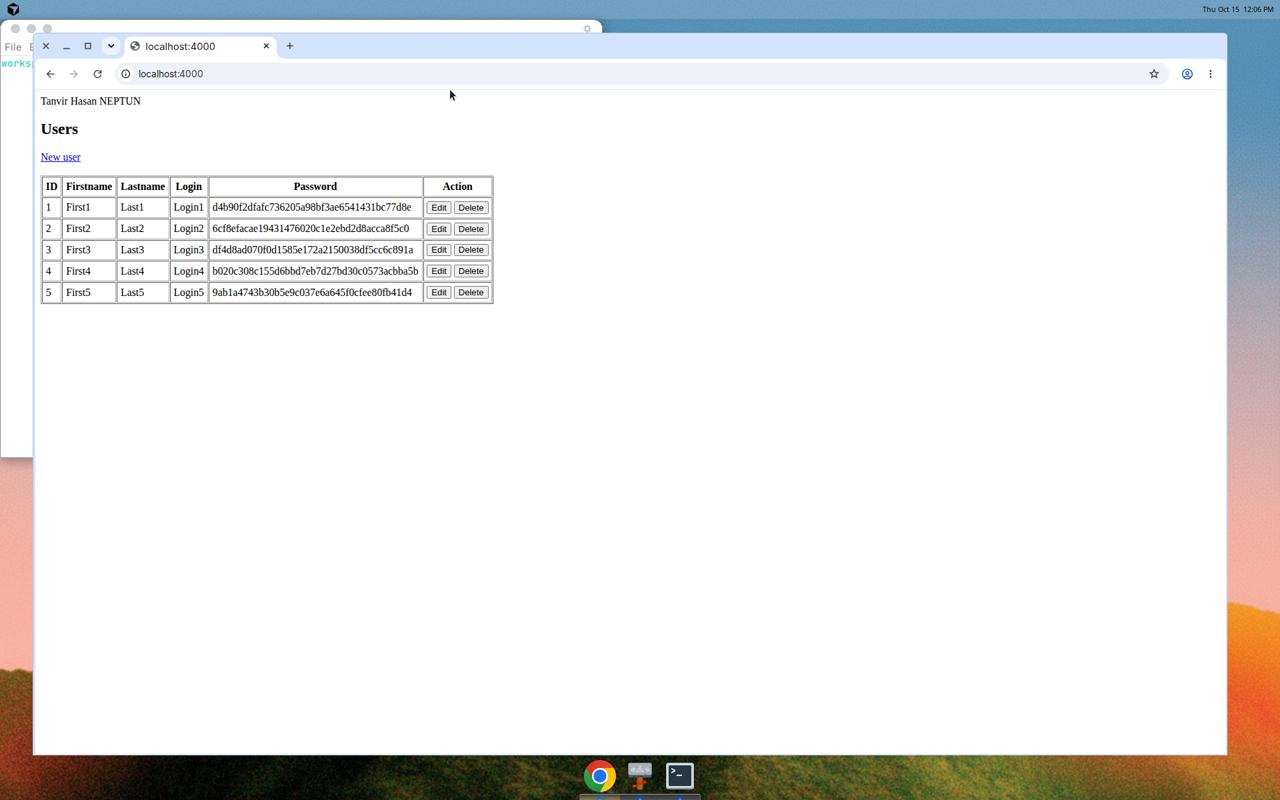
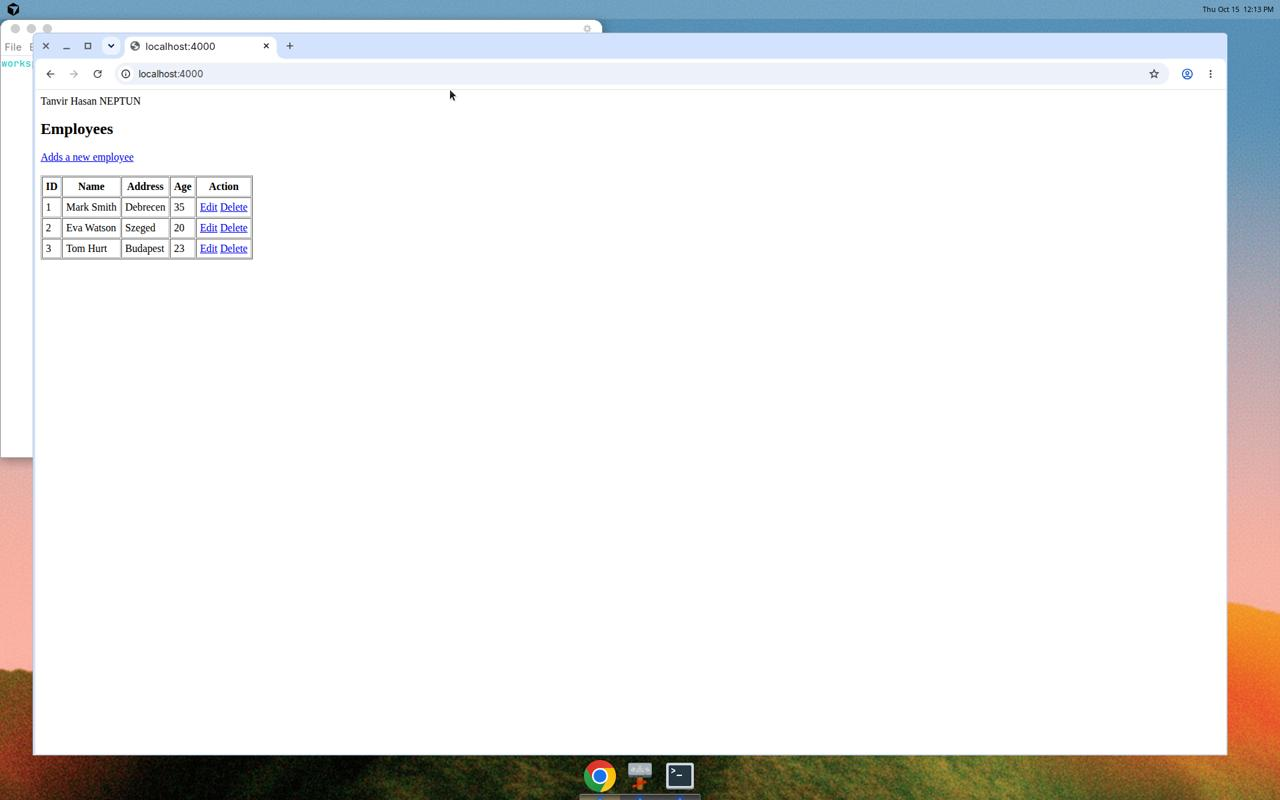
Adapt solution to Web-2-Midterm-1-A group from the exam sheets.
Exercise 1: /exercise form with Name, Address, and Country
(Hungary, Poland, Austria, Italy).
Exercise 2: employee CRUD on the exercise database with
Employees list, add/edit/delete routes.
Refresh mainpage.jpg and edit.jpg for Exercise 3.

Changed region(s): [[0.0312, 0.1562, 0.4062, 0.375]]

diff --git a/2-exercise/app.js b/2-exercise/app.js
@@ -13,7 +13,7 @@ const db = mysql.createConnection({
     host: "localhost",
     user: "root",
     password: "",
-    database: "web2"
+    database: "exercise"
 });
 
 db.connect(err => {
@@ -28,25 +28,20 @@ function header() {
 }
 
 app.get("/", (req, res) => {
-    db.query("SELECT * FROM users ORDER BY id", (err, rows) => {
+    db.query("SELECT * FROM employee ORDER BY id", (err, rows) => {
         if (err) {
             res.send(header() + "Database error!");
             return;
         }
         let html = header();
-        html += "<h2>Users</h2>";
-        html += "<a href='/new'>New user</a><br><br>";
+        html += "<h2>Employees</h2>";
+        html += "<a href='/new'>Adds a new employee</a><br><br>";
         html += "<table border='1' cellpadding='5'>";
-        html += "<tr><th>ID</th><th>Firstname</th><th>Lastname</th><th>Login</th><th>Password</th><th>Action</th></tr>";
+        html += "<tr><th>ID</th><th>Name</th><th>Address</th><th>Age</th><th>Action</th></tr>";
         rows.forEach(row => {
-            html += "<tr><td>" + row.id + "</td><td>" + row.firstname + "</td><td>" + row.lastname + "</td><td>" + row.login + "</td><td>" + row.password + "</td><td>";
-            html += `
-            <form method="get" action="/edit/${row.id}" style="display:inline">
-                <input type="submit" value="Edit">
-            </form>
-            <form method="get" action="/delete/${row.id}" style="display:inline">
-                <input type="submit" value="Delete">
-            </form>`;
+            html += "<tr><td>" + row.id + "</td><td>" + row.name + "</td><td>" + row.address + "</td><td>" + row.age + "</td><td>";
+            html += `<a href="/edit/${row.id}">Edit</a> `;
+            html += `<a href="/delete/${row.id}">Delete</a>`;
             html += "</td></tr>";
         });
         html += "</table>";
@@ -56,12 +51,11 @@ app.get("/", (req, res) => {
 
 app.get("/new", (req, res) => {
     let html = header();
-    html += `<h2>New user</h2>
+    html += `<h2>New employee</h2>
     <form method="post" action="/insert">
-        Firstname:<br><input name="firstname"><br>
-        Lastname:<br><input name="lastname"><br>
-        Login:<br><input name="login"><br>
-        Password:<br><input name="password"><br>
+        Name:<br><input name="name"><br>
+        Address:<br><input name="address"><br>
+        Age:<br><input name="age"><br>
         <input type="submit" value="Save">
     </form>
     <a href="/">Back</a>`;
@@ -70,30 +64,29 @@ app.get("/new", (req, res) => {
 
 app.post("/insert", (req, res) => {
     db.query(
-        "INSERT INTO users(firstname,lastname,login,password) VALUES(?,?,?,?)",
-        [req.body.firstname, req.body.lastname, req.body.login, req.body.password],
+        "INSERT INTO employee(name,address,age) VALUES(?,?,?)",
+        [req.body.name, req.body.address, req.body.age],
         () => res.redirect("/")
     );
 });
 
 app.get("/edit/:id", (req, res) => {
     db.query(
-        "SELECT * FROM users WHERE id=?",
+        "SELECT * FROM employee WHERE id=?",
         [req.params.id],
         (err, rows) => {
             if (err || rows.length === 0) {
                 res.send(header() + "Record not found");
                 return;
             }
-            let u = rows[0];
+            let e = rows[0];
             let html = header();
-            html += `<h2>Update user</h2>
+            html += `<h2>Update employee</h2>
             <form method="post" action="/update">
-                <input type="hidden" name="id" value="${u.id}">
-                Firstname:<br><input name="firstname" value="${u.firstname}"><br>
-                Lastname:<br><input name="lastname" value="${u.lastname}"><br>
-                Login:<br><input name="login" value="${u.login}"><br>
-                Password:<br><input name="password" value="${u.password}"><br>
+                <input type="hidden" name="id" value="${e.id}">
+                Name:<br><input name="name" value="${e.name}"><br>
+                Address:<br><input name="address" value="${e.address}"><br>
+                Age:<br><input name="age" value="${e.age}"><br>
                 <input type="submit" value="Save">
             </form>
             <br>
@@ -105,15 +98,15 @@ app.get("/edit/:id", (req, res) => {
 
 app.post("/update", (req, res) => {
     db.query(
-        "UPDATE users SET firstname=?, lastname=?, login=?, password=? WHERE id=?",
-        [req.body.firstname, req.body.lastname, req.body.login, req.body.password, req.body.id],
+        "UPDATE employee SET name=?, address=?, age=? WHERE id=?",
+        [req.body.name, req.body.address, req.body.age, req.body.id],
         () => res.redirect("/")
     );
 });
 
 app.get("/delete/:id", (req, res) => {
     db.query(
-        "DELETE FROM users WHERE id=?",
+        "DELETE FROM employee WHERE id=?",
         [req.params.id],
         () => res.redirect("/")
     );

diff --git a/1-exercise/app.js b/1-exercise/app.js
@@ -15,32 +15,34 @@ function header() {
 function formPage() {
     return `
         ${header()}
-        <form action="/page1" method="POST">
+        <form action="/exercise" method="POST">
             Name: <input type="text" name="name"><br>
-            City:
-            <select name="city">
-                <option value="Budapest">Budapest</option>
-                <option value="Madrid">Madrid</option>
-                <option value="Berlin">Berlin</option>
-                <option value="London">London</option>
-                <option value="Paris">Paris</option>
+            Address: <input type="text" name="address"><br>
+            Country:
+            <select name="country">
+                <option value="Hungary">Hungary</option>
+                <option value="Poland">Poland</option>
+                <option value="Austria">Austria</option>
+                <option value="Italy">Italy</option>
             </select><br>
             <button type="submit">Send</button>
         </form>
     `;
 }
 
-app.get("/page1", (req, res) => {
+app.get("/exercise", (req, res) => {
     res.send(formPage());
 });
 
-app.post("/page1", (req, res) => {
+app.post("/exercise", (req, res) => {
     const name = req.body.name;
-    const city = req.body.city;
+    const address = req.body.address;
+    const country = req.body.country;
     res.send(`
         ${header()}
         Name: ${name}<br>
-        City: ${city}<br>
+        Address: ${address}<br>
+        Country: ${country}<br>
     `);
 });
 

diff --git a/README.md b/README.md
@@ -1,10 +1,10 @@
-# Web 2 midterm sample
+# Web-2-Midterm-1-A group
 
-Practice solution for `Web-2-Midterm-1-SAMPLE`. The code follows the Web programming 2 seminar.
+Solution for **Web-2-Midterm-1-A group** (Express + MySQL).
 
-Replace `YOUR NAME` and `NEPTUN` at the top of both `app.js` files before a check.
+Replace `NEPTUN` at the top of both `app.js` files with your real Neptun code before submission. Zip folders as `YourName-Neptun.zip`.
 
-## Exercise 1 (6 points)
+## Exercise 1 (7 points)
 
 Folder: `1-exercise`
 
@@ -14,20 +14,18 @@ npm install
 node app.js
 ```
 
-Open http://localhost:3000/page1
+Open http://localhost:3000/exercise
 
-- Name text field
-- City list: Budapest, Madrid, Berlin, London, Paris
-- Send posts to the same URL and prints `Name:` and `City:`
-- Name and Neptun code are the first line
-
-Seminar pages: npm install is on page 24. Forms are pages 28–32. The same-URL GET and POST pattern is `exercise08.js` on pages 31–32. The `<select>` example is on page 37.
+- Name and Address text fields
+- Country list: Hungary, Poland, Austria, Italy
+- POST to the same URL and prints `Name:`, `Address:`, `Country:`
+- Name and Neptun code on the first row
 
 ## Exercise 2 (14 points)
 
 Folder: `2-exercise`
 
-Create the `web2` database in XAMPP phpMyAdmin with `web2.sql`. Start MySQL first.
+Create the `exercise` database in XAMPP phpMyAdmin with `exercise.sql`. Start MySQL first.
 
 ```powershell
 cd 2-exercise
@@ -39,13 +37,11 @@ Open http://localhost:4000
 
 | Page | URL |
 |---|---|
-| Main list | http://localhost:4000 |
+| Main list (Employees) | http://localhost:4000 |
 | New record | http://localhost:4000/new |
 | Edit | http://localhost:4000/edit/ID |
 | Delete | http://localhost:4000/delete/ID |
 
-Seminar pages: database SQL is on pages 37–38. `npm install express` and `npm install mysql2` are on page 38. The CRUD with `/edit/ID` and `/delete/ID` is `exercise04.js` on pages 41–43. The seminar uses port 8080. This exam uses port 4000.
-
-## Exercise 3 (5 points)
+## Exercise 3 (4 points)
 
 Take `mainpage.jpg` and `edit.jpg` in the browser. The address bar, the name on the page, and a working app must be visible.
